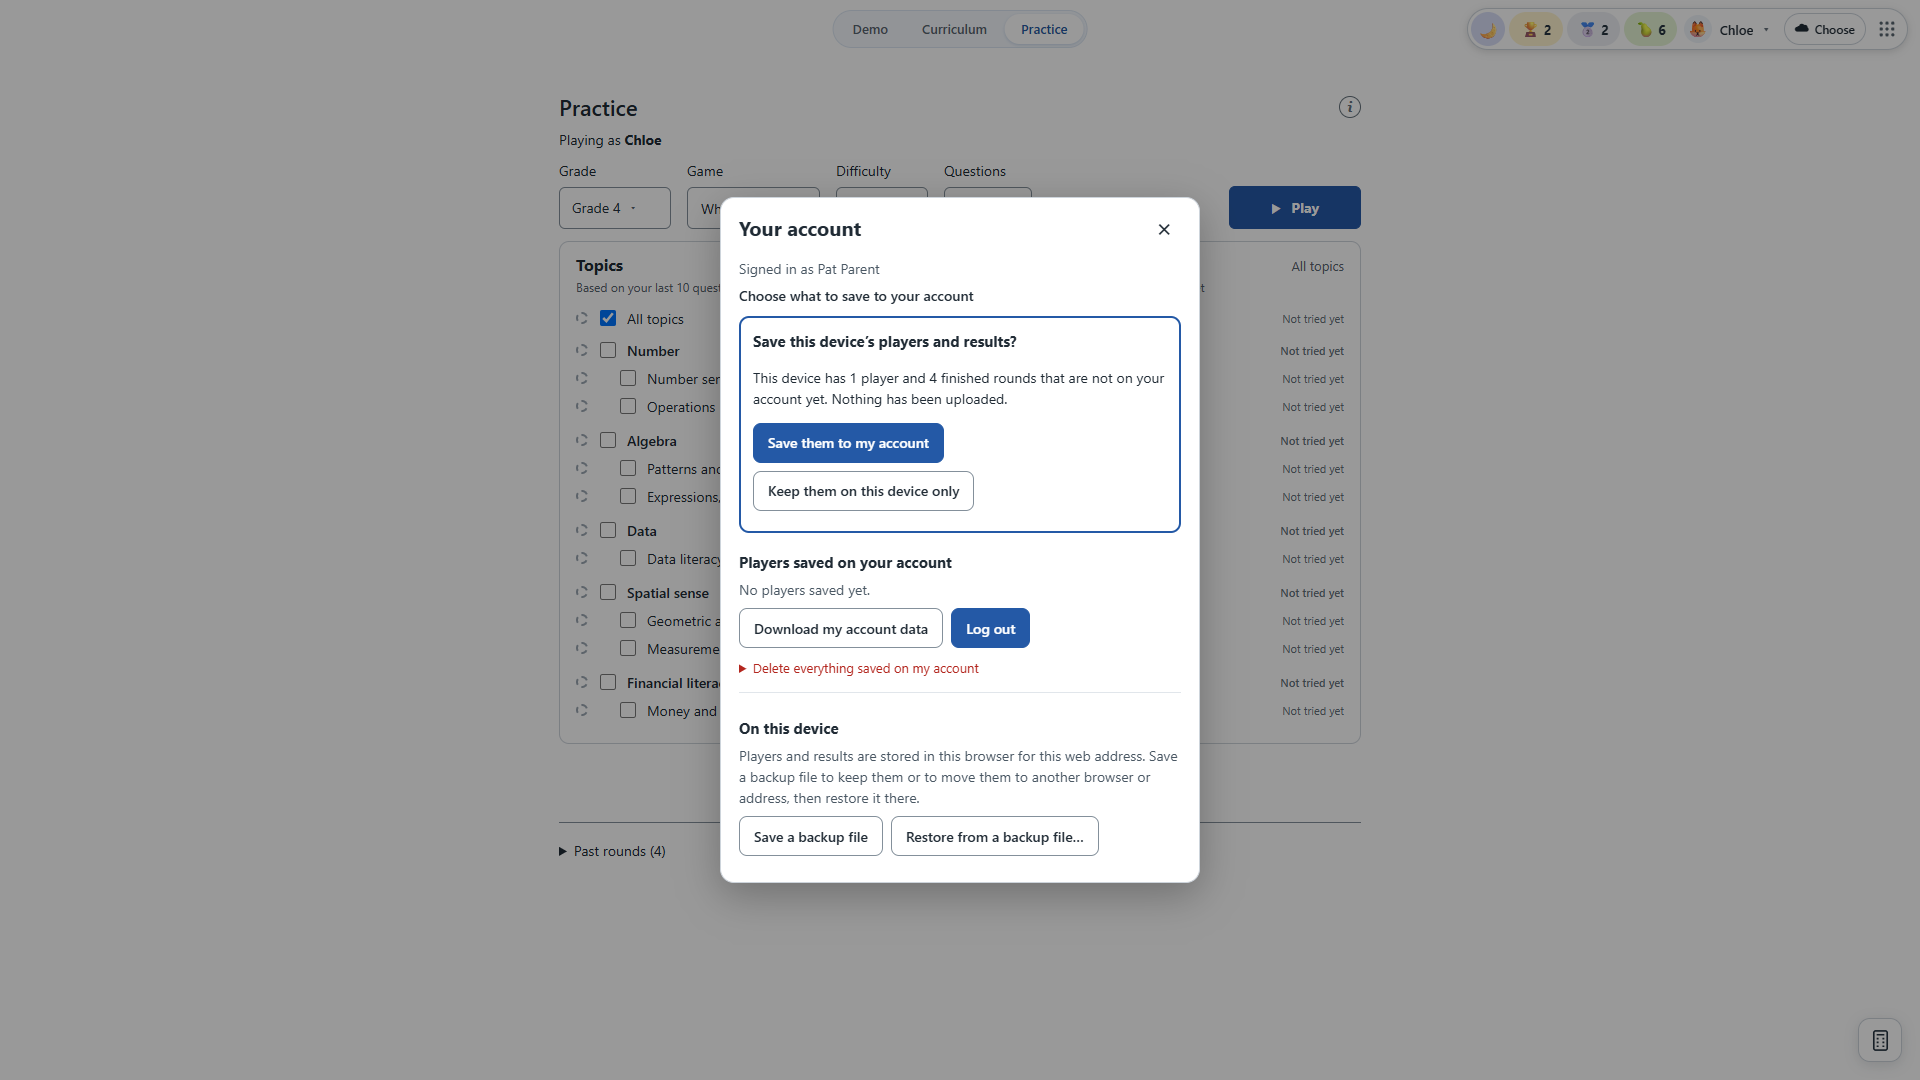
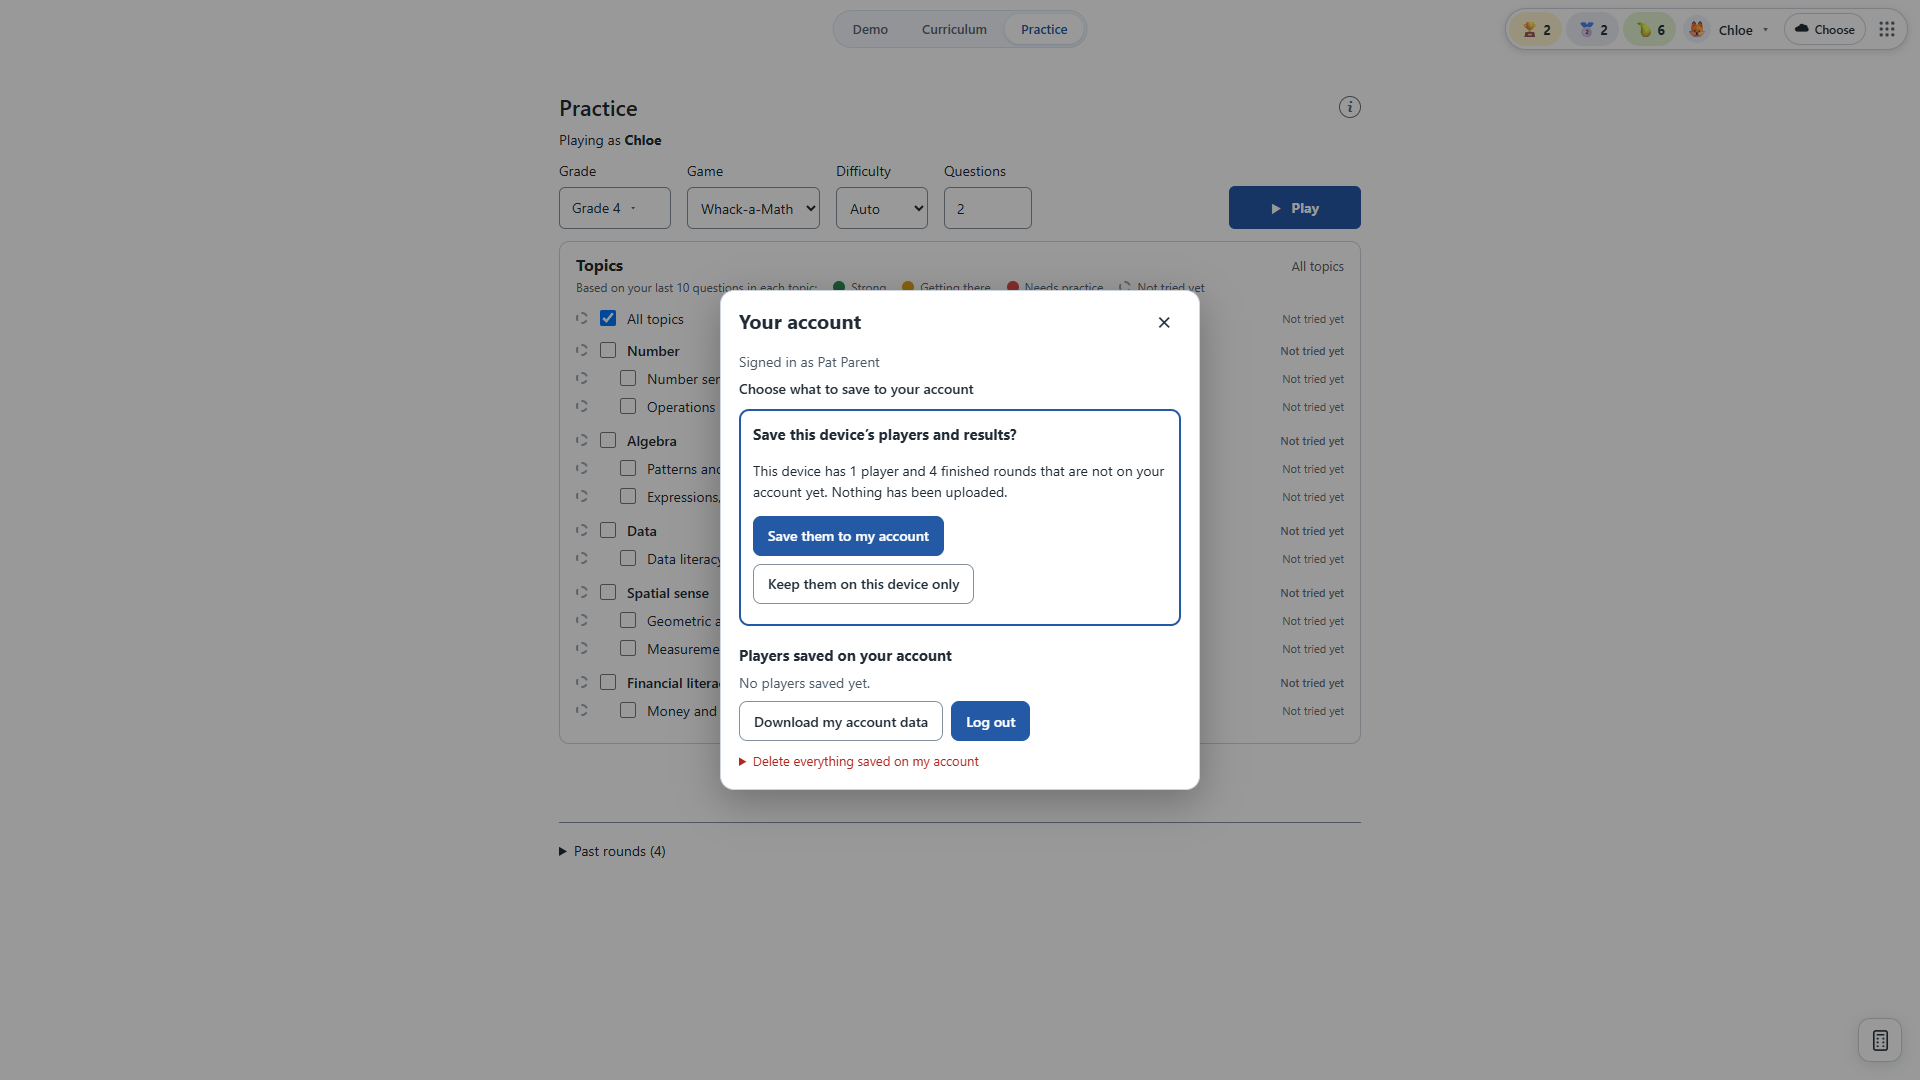
Remove device backup; pin the Practice page to the light look; retake screenshots

Changed region(s): [[0.375, 0.1833, 0.625, 0.825]]

diff --git a/src/ui/account.js b/src/ui/account.js
@@ -1,5 +1,5 @@
 import {el} from './dom.js';
-import {syncEnabled,getSync,onSync,startSync,login,logout,chooseAttach,accountLearners,deleteProfileEverywhere,accountExport,eraseAccountData,deviceBackup,restoreBackup,authClient,MESSAGES} from '../sync/index.js';
+import {syncEnabled,getSync,onSync,startSync,login,logout,chooseAttach,accountLearners,deleteProfileEverywhere,accountExport,eraseAccountData,authClient,MESSAGES} from '../sync/index.js';
 import {playerKey} from '../game/profile.js';
 
 // The optional account: a small status button in the top-right corner, and a dialog for logging in, choosing what to save,
@@ -101,20 +101,6 @@ function accountView(snapshot){
  return view;
 }
 
-function deviceView(){
- const section=el('section',undefined,'auth-device');
- section.append(el('h3','On this device'),
-  el('p','Players and results are stored in this browser for this web address. Save a backup file to keep them or to move them to another browser or address, then restore it there.','auth-note'));
- const file=el('input');file.type='file';file.accept='application/json,.json';file.hidden=true;
- file.onchange=()=>{const chosen=file.files[0];file.value='';if(!chosen)return;guarded(async()=>{
-  const out=await restoreBackup(await chosen.text());
-  say(`Restored ${plural(out.rounds,'round','rounds')}${out.skipped?` (${plural(out.skipped,'entry','entries')} could not be read)`:''}.`,'ok');
- });};
- const row=el('div',undefined,'auth-row');
- row.append(button('Save a backup file',()=>guarded(async()=>download('whack-a-math-backup.json',await deviceBackup()),'Backup saved.')),button('Restore from a backup file…',()=>file.click()),file);
- section.append(row);return section;
-}
-
 function paint(){
  if(!body)return;
  const snapshot=getSync();body.textContent='';
@@ -127,7 +113,6 @@ function paint(){
   else if(returned.resetToken)body.append(resetView(returned.resetToken));
   else body.append(mode==='forgot'?forgotView():loginView(snapshot));
  }
- body.append(deviceView());
  if(snapshot.account&&!learners&&!busy)accountLearners().then(list=>{learners=list;paint();}).catch(()=>{learners=[];paint();});
 }
 
@@ -135,7 +120,7 @@ export function openAccount(){
  if(!dialog){
   dialog=el('dialog',undefined,'auth-dialog');dialog.setAttribute('aria-labelledby','auth-title');
   const head=el('div',undefined,'auth-head'),close=button('×',()=>dialog.close(),'auth-close');close.setAttribute('aria-label','Close');
-  const title=el('h2',syncEnabled()?'Your account':'This device','');title.id='auth-title';head.append(title,close);
+  const title=el('h2','Your account','');title.id='auth-title';head.append(title,close);
   body=el('div',undefined,'auth-body');dialog.append(head,body);document.body.append(dialog);
   dialog.addEventListener('close',()=>{lastFocus?.focus?.();});
   dialog.addEventListener('click',event=>{if(event.target===dialog)dialog.close();});

diff --git a/src/sync/sync.test.js b/src/sync/sync.test.js
@@ -4,7 +4,6 @@ import {toResult,toRound,isFinished} from './result.js';
 import {createHttp,HttpError,isOffline} from './http.js';
 import {createAuth,summary,takeReturnParams} from './auth.js';
 import {createState,rememberAccount,lastAccount} from './state.js';
-import {buildBackup,parseBackup,importBackup,BACKUP_FORMAT} from './backup.js';
 import {syncAvailable} from './config.js';
 import {curriculumForGrade} from '../curriculum/catalog.js';
 
@@ -95,22 +94,4 @@ test('sync state is stored per account and the last account is remembered',()=>{
 test('account features appear only on the shared domain',()=>{
  assert.equal(syncAvailable('math.hedgies.cloud'),true);
  for(const host of ['localhost','127.0.0.1','chris-kc-cheng.github.io','evilhedgies.cloud','hedgies.cloud.evil.test'])assert.equal(syncAvailable(host),false,host);
-});
-
-test('backup round trip: export, parse, import without duplicating',async()=>{
- const rounds=new Map([[round.id,round]]),profiles=new Map(),calls=[];
- const local={async profiles(){return [...profiles.values()];},async rounds(){return [...rounds.values()];},async upsertProfile(p){profiles.set(p.id,p);},async addRounds(list){let n=0;for(const r of list)if(!rounds.has(r.id)){rounds.set(r.id,r);n++;}return n;}};
- const file=JSON.stringify(buildBackup({profiles:[{id:'chloe',name:'Chloe',avatar:'🦊'}],rounds:[round,{...round,id:'remote-1',remote:true}]}));
- assert.equal(JSON.parse(file).format,BACKUP_FORMAT);assert.equal(JSON.parse(file).rounds.length,1);        // rounds copied from the account are not exported
- rounds.clear();
- const out=await importBackup(file,{local});
- assert.equal(out.rounds,1);assert.equal(rounds.size,1);assert.equal(profiles.get('chloe').avatar,'🦊');
- assert.equal((await importBackup(file,{local})).rounds,0);
-});
-test('backup parsing rejects other files and drops malformed entries',()=>{
- assert.throws(()=>parseBackup('not json'),/not a Whack-a-Math backup/);
- assert.throws(()=>parseBackup('{"format":"other"}'),/not a Whack-a-Math backup/);
- assert.throws(()=>parseBackup('x'.repeat(21*1024*1024)),/too large/);
- const out=parseBackup(JSON.stringify({format:BACKUP_FORMAT,profiles:[{id:'a',name:'A'},{id:'',name:'bad'},{name:'no id'}],rounds:[{id:'r1',profileId:'a',playerName:'A',grade:4,questions:[{templateId:'t'}]},{id:'bad id',profileId:'a'},{id:'r2',profileId:'zz'}]}));
- assert.equal(out.profiles.length,1);assert.equal(out.rounds.length,1);assert.equal(out.skipped,2);
 });

diff --git a/game.html b/game.html
@@ -1,1 +1,1 @@
-<!doctype html><html lang="en"><head><meta charset="UTF-8"><meta name="viewport" content="width=device-width,initial-scale=1"><title>Practice · Whack-a-Math</title><link rel="apple-touch-icon" sizes="180x180" href="%BASE_URL%icons/mole-180.png?v=meadow"><link rel="manifest" href="%BASE_URL%manifest.webmanifest"><meta name="application-name" content="Whack-a-Math"><meta name="apple-mobile-web-app-title" content="Whack-a-Math"><link rel="icon" href="%BASE_URL%favicon.ico"><link rel="stylesheet" href="%BASE_URL%theme.css"><script src="%BASE_URL%theme.js"></script></head><body><div id="app"></div><script type="module" src="/src/pages/game.js"></script></body></html>
+<!doctype html><html lang="en" data-theme-lock="light"><head><meta charset="UTF-8"><meta name="viewport" content="width=device-width,initial-scale=1"><title>Practice · Whack-a-Math</title><link rel="apple-touch-icon" sizes="180x180" href="%BASE_URL%icons/mole-180.png?v=meadow"><link rel="manifest" href="%BASE_URL%manifest.webmanifest"><meta name="application-name" content="Whack-a-Math"><meta name="apple-mobile-web-app-title" content="Whack-a-Math"><link rel="icon" href="%BASE_URL%favicon.ico"><link rel="stylesheet" href="%BASE_URL%theme.css"><script src="%BASE_URL%theme.js"></script></head><body><div id="app"></div><script type="module" src="/src/pages/game.js"></script></body></html>

diff --git a/src/ui/profile-corner.js b/src/ui/profile-corner.js
@@ -3,7 +3,7 @@ import {listRounds} from '../game/storage.js';
 import {activeProfile,playerKey,addProfile,chooseProfile,profilesIn,profileStats,avatarFor,chooseAvatar,AVATARS,WIN_ACCURACY} from '../game/profile.js';
 import {el} from './dom.js';
 import {createAppLauncher} from './app-launcher.js';
-import {createAccountButton,openAccount} from './account.js';
+import {createAccountButton} from './account.js';
 
 // The player badge and lifetime statistics in the top-right corner of every page.
 const HUES=[212,28,150,280,350,48,190,320];
@@ -51,8 +51,6 @@ function menuView(close){
  form.onsubmit=event=>{event.preventDefault();let id;try{id=playerKey(field.value);}catch(problem){error.textContent=problem.message;field.focus();return;}
   const person={id,name:field.value.trim().replace(/s+/g,' ')};addProfile(person);close();emit(person);};
  menu.append(add,form);
- const backup=el('button',undefined,'menu-item menu-backup');backup.type='button';backup.setAttribute('role','menuitem');backup.append(el('span','💾','avatar avatar-add'),el('span','Back up or move data'));
- backup.onclick=()=>{close();openAccount();};menu.append(backup);
  if(profile){
   const picker=el('div',undefined,'avatar-picker');picker.setAttribute('role','group');picker.setAttribute('aria-label','Choose an avatar');
   picker.append(el('p','Avatar','menu-title'));

diff --git a/src/sync/index.js b/src/sync/index.js
@@ -5,7 +5,6 @@ import {HttpError,isOffline} from './http.js';
 import {createEngine} from './engine.js';
 import {createState,rememberAccount,lastAccount} from './state.js';
 import {browserLocal} from './local.js';
-import {buildBackup,importBackup} from './backup.js';
 
 // The optional account: signing in saves this device's players and results to the person's account and loads them on any device.
 // Nothing here is required to play. A failed or slow call only changes the status text; the app keeps working from this device.
@@ -132,15 +131,6 @@ export async function eraseAccountData(){
  try{await api.deleteAccountData();}catch(error){throw friendly(error);}
  const state=createState(snapshot.account.id);state.forget();
  useAccount(snapshot.account);set({status:'ask'});requestSync(0);
-}
-
-export async function deviceBackup(){
- return JSON.stringify(buildBackup({profiles:await browserLocal.profiles(),rounds:await browserLocal.rounds()}));
-}
-export async function restoreBackup(text){
- const result=await importBackup(text,{local:browserLocal});
- document.dispatchEvent(new CustomEvent('math-rounds-changed'));
- return result;
 }
 
 function friendly(error,fallback='Something went wrong. Please try again.'){

diff --git a/src/ui/chrome.css b/src/ui/chrome.css
@@ -152,3 +152,4 @@ html[data-theme=dark] .account-button{background:#222d37;color:#e1e7ed;border-co
 html[data-theme=dark] .auth-dialog{background:#222d37;color:#e1e7ed;border-color:#52606d}html[data-theme=dark] :is(.auth-note,.auth-muted,.auth-or){color:#b5c1cc}
 html[data-theme=dark] .auth-button{background:#2c3a47;color:#e1e7ed;border-color:#52606d}html[data-theme=dark] :is(.auth-primary){background:#4d82d6;border-color:#4d82d6;color:#0c1621}
 html[data-theme=dark] .auth-link{color:#99c5ff}html[data-theme=dark] .auth-field input{background:#182027;color:#e1e7ed;border-color:#52606d}
+html[data-theme-lock] #theme-toggle{display:none!important}

diff --git a/src/game/storage.js b/src/game/storage.js
@@ -27,7 +27,7 @@ export async function saveRound(round){
   tx.oncomplete=()=>resolve(saved);tx.onerror=()=>reject(error||tx.error);tx.onabort=()=>reject(error||tx.error||Error('Could not save progress.'));
  });
 }
-// Rounds that arrive from the account or from an imported backup: added only when the id is new, stored exactly as given.
+// Rounds that arrive from the account: added only when the id is new, stored exactly as given.
 export async function addRounds(rounds){
  if(!rounds.length)return 0;
  const db=await openGameDatabase();return new Promise((resolve,reject)=>{

diff --git a/src/deploy.test.js b/src/deploy.test.js
@@ -44,3 +44,9 @@ test('names stay neutral: the platform domain is the only place the word appears
 test('the app id in the shared registry is math',()=>{
  assert.match(read('vite.config.js'),/const appId='math'/);
 });
+
+test('the Practice page is pinned to the light look and the theme script honours the lock',()=>{
+ assert.match(read('game.html'),/<html[^>]+data-theme-lock="light"/);
+ assert.match(read('public/theme.js'),/root\.dataset\.themeLock/);
+ assert.ok(!/data-theme-lock/.test(read('index.html'))&&!/data-theme-lock/.test(read('curriculum.html')));
+});

diff --git a/public/theme.js b/public/theme.js
@@ -4,7 +4,9 @@
   let preference;
   try { preference = localStorage.getItem('math-theme'); } catch {}
   const apply = () => {
-    const dark = preference ? preference === 'dark' : system.matches;
+    // A page can pin the look (the Practice game is always light): <html data-theme-lock="light">.
+    const lock = root.dataset.themeLock;
+    const dark = lock ? lock === 'dark' : preference ? preference === 'dark' : system.matches;
     root.dataset.theme = dark ? 'dark' : 'light';
     const button = document.querySelector('.theme-toggle');
     if (button) {

diff --git a/CLAUDE.md b/CLAUDE.md
@@ -138,3 +138,4 @@ Hammer placement follow-up: the hammer head now just touches the top of the pick
 Moved Math to `math.hedgies.cloud` on the shared platform and added an optional account: `api/` (FastAPI, Alembic, verifies the shared `sso_access` cookie/Bearer RS256 token; tables accounts, learner_profiles, deleted_learners, practice_results, result_items), `src/sync/` (offline-first push/pull, per-account state, device backup file), `src/ui/account.js` (cloud status button, login/attach/delete/export dialog), `compose.infra.yaml`, `deploy/math.caddy`, `deploy-production.yml` (replaces the Pages deploy; Pages is retired, no moved notice), `docs/shared-infra.md` (cutover and privacy). Launcher now reads apps.hedgies.cloud and this app's registry id is `math`. Verified in a browser against a stub login service and the real API (login, attach offer, push, list, delete cascade). Not verified: real auth.hedgies.cloud CORS/return_to, the Caddy route (no image pull possible offline), the deploy workflow on a real server. Screenshots `account-dialog.png` and `avatar-picker.png` retaken (light, 1920 × 1080, with VITE_FORCE_SYNC so the cloud button shows). Reviewer notes: result time is wall-clock from first to last answer (includes pauses on resumed rounds); per-question time is not tracked (`time_ms` null); `assisted` is stored as not correct.
 
 Follow-up: GitHub Pages workflows and the moved-notice code removed on the owner's decision. Any active shared login may save its own results (no approval step). Auth service checked read-only: `return_to` and credentialed CORS accept any https `*.hedgies.cloud`, so math.hedgies.cloud needs no auth change.
+Follow-up: "Back up or move data" (device backup file) removed on the owner's decision; `avatar-picker.png` and `account-dialog.png` need a retake. Practice (`game.html`) always renders light: `data-theme-lock="light"` on its `<html>`, honoured by `public/theme.js`, toggle hidden.

diff --git a/src/README.md b/src/README.md
@@ -14,7 +14,7 @@ src/
     nav.js, profile-corner.js    Page switcher; player badge, statistics and the add-player menu
     difficulty.js                Difficulty badge and selector (saved choice: Auto, Simple, Medium, Hard)
     app-launcher.js              9-dot app launcher, last item in the top-right corner; live list from apps.hedgies.cloud/app.json (this app is id `math`)
-    account.js                   Optional account: status button, login/attach/delete/export dialog, device backup
+    account.js                   Optional account: status button, login/attach/delete/export dialog
     grade-picker.js, chrome.css  Grade display with its collapsible selector
     math-text.js, debug.js       Plain a/b → LaTeX fractions; debug log
   views/                         Calculation-board renderers (equation, long division, long multiplication)
@@ -23,7 +23,7 @@ src/
   demo/examples.js               Landing examples backed by canonical curriculum templates
   sync/                          Optional account sync (never required): config (shown only on *.hedgies.cloud), http (timeouts, CSRF header), auth (shared login client),
                                  api, result (round <-> minimal result), state (per-account links/cursors), engine (offline-first push/pull, pure and tested),
-                                 local (IndexedDB/localStorage adapter), backup (device backup file), index (status, triggers)
+                                 local (IndexedDB/localStorage adapter), index (status, triggers)
   game/                          Practice model (rounds, scoring), IndexedDB storage, profiles, Mole meadow
   curriculum/
     catalog.js                   Grades 1–10 datasets and grade selection

diff --git a/AGENTS.md b/AGENTS.md
@@ -48,7 +48,7 @@ The shared calculator is a bounded 36X Pro key-entry subset with a custom seven-
 
 Fraction calculator tutorials must use the calculator's n/d fields and cursor sequence. Scientific-notation lessons retain the existing ×10ⁿ teaching and add EE entry plus a SCI display alternative; do not substitute decimal-to-fraction conversion for moving a decimal point. The current landing sequence has ten examples.
 
-Practice defaults to Mole meadow: a full-window grassy five-choice quiz with five mole variants, click confirmation, hit/dizzy or escape feedback, and explanations after every answer. Captain Patty remains selectable.
+Practice defaults to Mole meadow: a full-window grassy five-choice quiz with five mole variants, click confirmation, hit/dizzy or escape feedback, and explanations after every answer. Captain Patty remains selectable. The Practice page (`game.html`) always renders in the light look regardless of the dark-mode setting (`data-theme-lock="light"` on `<html>`, handled in `public/theme.js`; the toggle is hidden there); do not add dark-mode styling for it.
 
 The curriculum grade overview and selector form one connected header, with grade choices expanding directly below.
 
